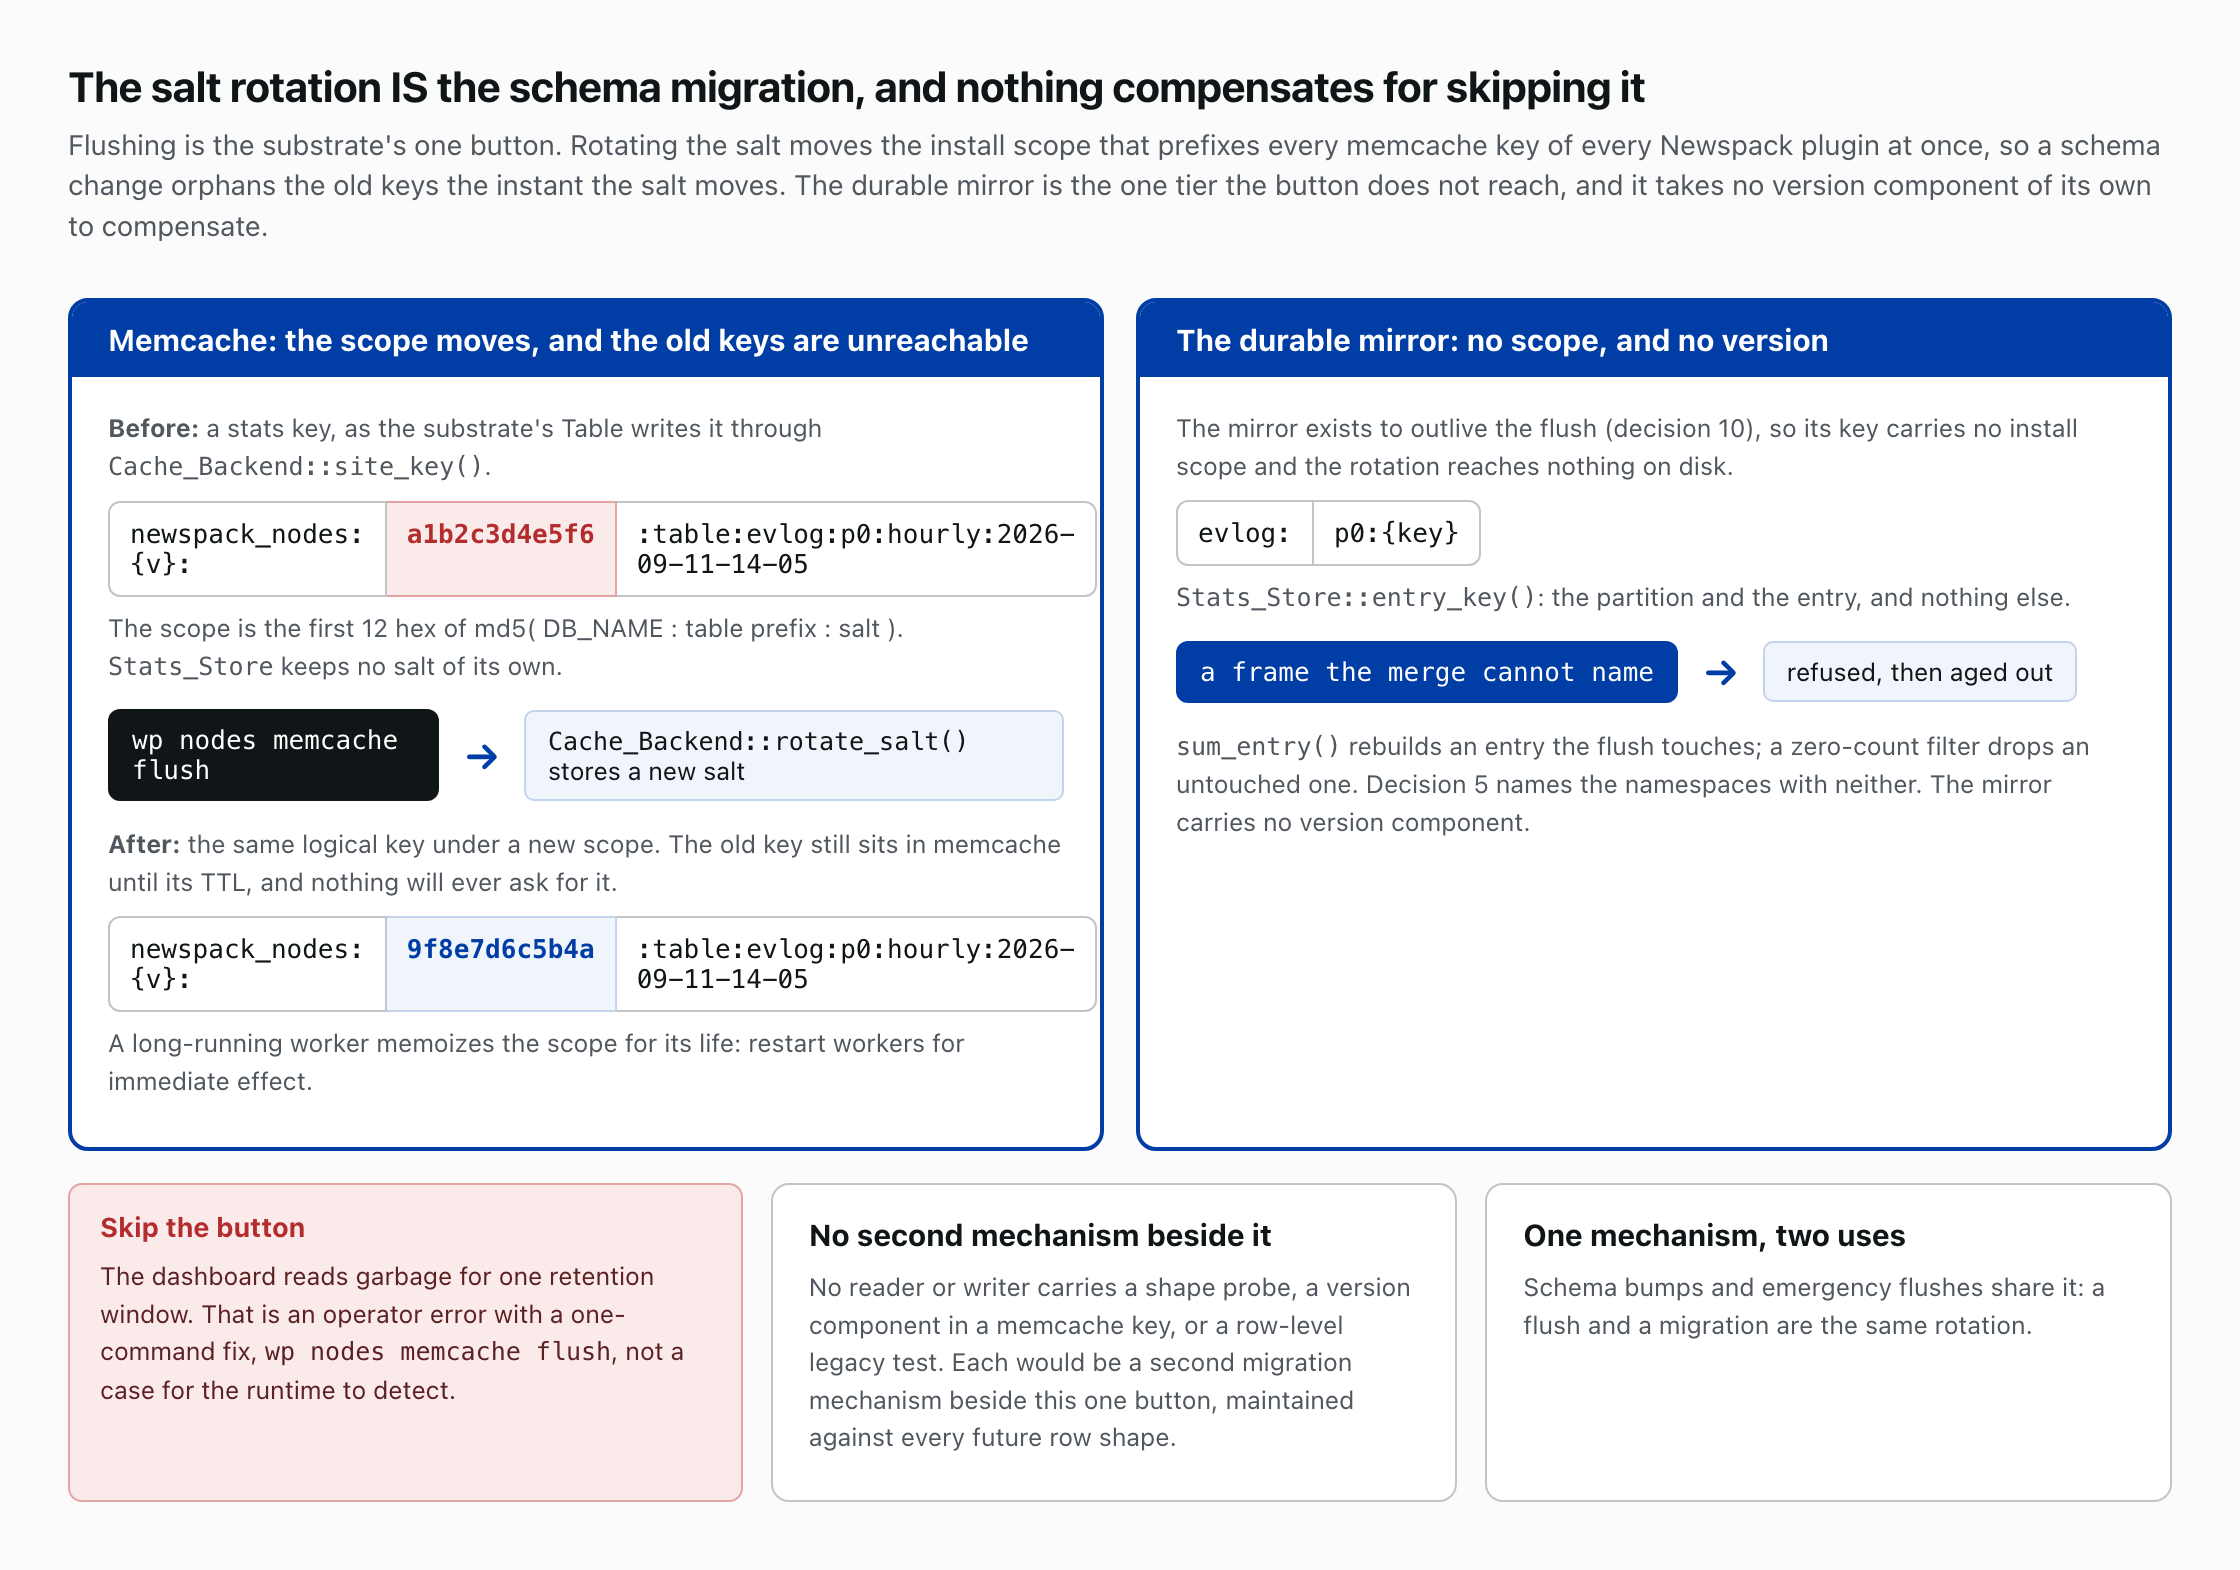
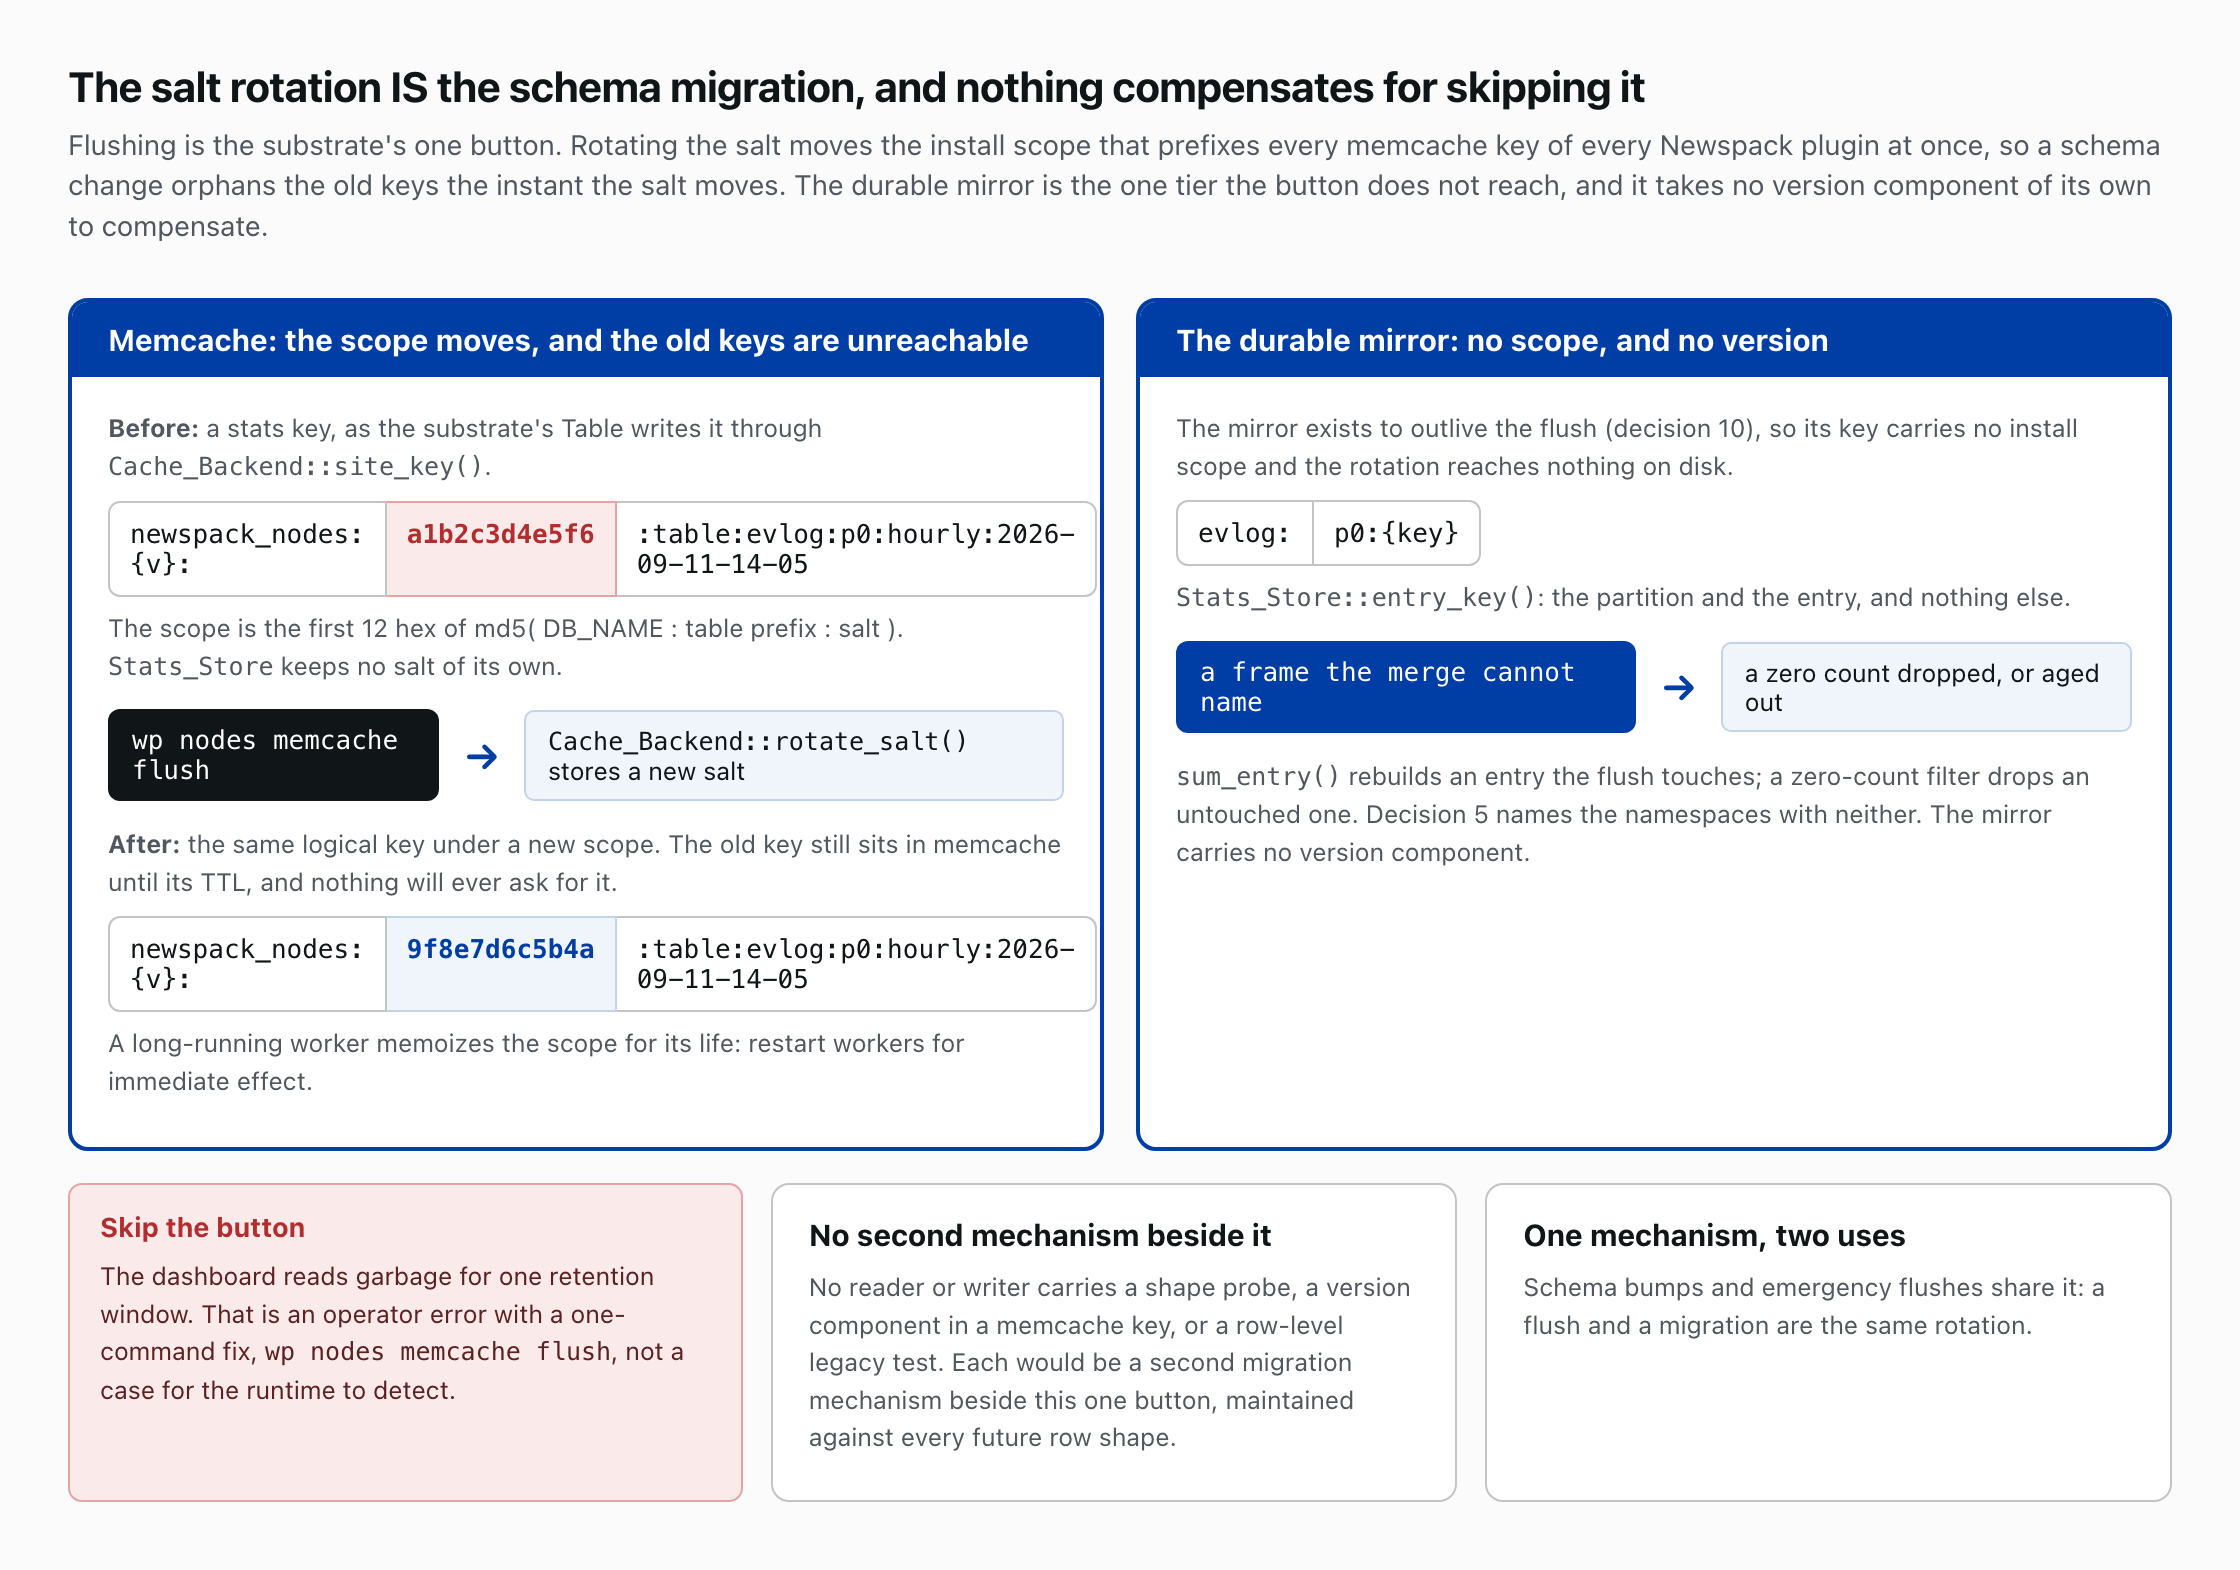
docs: one statement of the zero-count drop; the review skill counts eleven keys
`entry_key()`'s docblock, decision 5's alt text and the salt-rotation
diagram said the same rule three ways, one of them still "refused"; each
now states the two outcomes and defers the namespace list to decision 5,
and the diagram is re-rendered. The store's key parsers own the segment
prose the two `@param` rows repeated. The review skill counts the eleven
application keys the schema declares and names `mirrors_key()` as the one
predicate both reader seams ask. Two tests spell the marker's cache key
through the helper that owns it.

Changed region(s): [[0.5, 0.4057, 0.9375, 0.5618]]

diff --git a/docs/img/dec-salt-rotation.html b/docs/img/dec-salt-rotation.html
@@ -40,7 +40,7 @@
       <p>The mirror exists to outlive the flush (decision 10), so its key carries no install scope and the rotation reaches nothing on disk.</p>
       <div class="keyrow"><span class="seg">evlog:</span><span class="seg">p0:{key}</span></div>
       <p class="cap"><span class="mono">Stats_Store::entry_key()</span>: the partition and the entry, and nothing else.</p>
-      <div class="act"><span class="cmd" style="background:#003DA5">a frame the merge cannot name</span><span class="arr">&rarr;</span><span class="chip">refused, then aged out</span></div>
+      <div class="act"><span class="cmd" style="background:#003DA5">a frame the merge cannot name</span><span class="arr">&rarr;</span><span class="chip">a zero count dropped, or aged out</span></div>
       <p class="cap"><span class="mono">sum_entry()</span> rebuilds an entry the flush touches; a zero-count filter drops an untouched one. Decision 5 names the namespaces with neither. The mirror carries no version component.</p>
     </div></div>
 </div>

diff --git a/includes/class-stats-store.php b/includes/class-stats-store.php
@@ -1266,9 +1266,8 @@ class Stats_Store {
 	 * the entry and nothing else, and a rotation orphans nothing on disk.
 	 *
 	 * No version component either: a frame in a shape the merge does not name
-	 * sums to a zero count, which `measured()` drops on the write and on the
-	 * read where a sum table names the count; one outside those four
-	 * namespaces ages out of the retention window.
+	 * sums to a zero count `measured()` drops, or ages out with its retention
+	 * window — decision 5 names which namespaces take which.
 	 *
 	 * @param int    $partition Flame-builder partition.
 	 * @param string $key       Entry key within the namespace.
@@ -1493,8 +1492,7 @@ class Stats_Store {
 	 * bucket most of whose window is spent, the moment that policy changes.
 	 *
 	 * @api The mirror seam, sizing what it hands back.
-	 * @param string $key Table-RELATIVE entry key: `<ns>:…:<bucket>`, as the
-	 *                    rehydrate seam reads its namespace off segment 0.
+	 * @param string $key Table-RELATIVE entry key: `<ns>:…:<bucket>`.
 	 * @param int    $now Clock, so one answer cannot straddle a boundary.
 	 * @return int Seconds remaining, 0 when the key names no readable bucket.
 	 */
@@ -1515,7 +1513,7 @@ class Stats_Store {
 	 * ISO 8601 through `strtotime()`, because that function reads many
 	 * non-dates as dates, `x` included; the shape is pinned first.
 	 *
-	 * @param string $key Table-relative entry key; the bucket is the last segment.
+	 * @param string $key Table-relative entry key: `<ns>:…:<bucket>`.
 	 * @return array{0: int, 1: int}|null
 	 */
 	private static function bucket_span( string $key ): ?array {

diff --git a/tests/unit/StatsStoreTest.php b/tests/unit/StatsStoreTest.php
@@ -762,9 +762,9 @@ class StatsStoreTest extends TestCase {
 		// one only briefly, since its frame may still land.
 		$this->assertSame( [ [ 'lb:' . $closed, 'lb:' . $open ] ], $asked );
 		$expiries = Core::$memd->expiries();
-		$brief    = $expiries[ \Newspack_Nodes\Table_Node::entry_key( Stats_Store::namespace_for( 0 ), 'lb:' . $open ) ] ?? 0;
+		$brief    = $expiries[ self::cache_key( 0, 'lb:' . $open ) ] ?? 0;
 		$this->assertEqualsWithDelta( $now + Stats_Store::ABSENCE_HOLD_SECONDS, $brief, 2, 'the open bucket\'s absence holds briefly' );
-		$held     = $expiries[ \Newspack_Nodes\Table_Node::entry_key( Stats_Store::namespace_for( 0 ), 'lb:' . $closed ) ] ?? 0;
+		$held     = $expiries[ self::cache_key( 0, 'lb:' . $closed ) ] ?? 0;
 		// The window is 7200s from the bucket's start, an hour ago.
 		$this->assertEqualsWithDelta( $now - ( $now % Stats_Store::BUCKET_SECONDS ) - 3600 + 7200, $held, 2 + Stats_Store::BUCKET_SECONDS, 'held for what is left of the window, not the table lifetime' );
 	}

diff --git a/tests/Helpers/TestCase.php b/tests/Helpers/TestCase.php
@@ -218,6 +218,7 @@ abstract class TestCase extends RuntimeTestCase {
 	protected static function cache_key( int $partition, string $key ): string {
 		return \Newspack_Nodes\Table_Node::entry_key( \Newspack_Event_Logger_Nodes\Stats_Store::namespace_for( $partition ), $key );
 	}
+
 	/**
 	 * The inverse of `positional_url_row()`, for assertions.
 	 *

diff --git a/docs/architecture-decisions.md b/docs/architecture-decisions.md
@@ -78,7 +78,7 @@ The three settings a hub pushes, the ruleset, `log_memory` and `flush_every_line
 
 A memcache schema change here is migrated by the substrate's flush, `wp nodes memcache flush` over [`Cache_Backend::rotate_salt()`](https://github.com/Automattic/newspack-nodes/blob/v2.56.0/includes/class-cache-backend.php), and `Stats_Store` keeps no salt and no migration path of its own. Schema bumps and emergency flushes share that one button. **The rotation IS the migration, and nothing in the code compensates for skipping it.** A schema change orphans the old keys the instant the salt moves, so no reader or writer carries a shape probe, a version component or a row-level legacy test: each would be a second migration mechanism beside this one button, maintained against every future row shape. Skip the button and the dashboard reads garbage for one retention window; that is an operator error with a one-command fix, not a case for the runtime to detect.
 
-![The salt rotation drawn on two key forms. Left, memcache: a stats key as the substrate Table writes it through Cache_Backend::site_key(), newspack_nodes:{v}: then a 12-hex scope, the first 12 hex of md5(DB_NAME : table prefix : salt), then :table:evlog:p0:hourly and the bucket. wp nodes memcache flush runs Cache_Backend::rotate_salt(), which stores a new salt, and the same logical key moves under a new scope while the old key sits in memcache until its TTL with nothing ever asking for it; Stats_Store keeps no salt of its own, and a long-running worker memoizes the scope, so workers restart for immediate effect. Right, the durable mirror: evlog:p0:{key} carries no install scope, so the rotation reaches nothing on disk, and the key carries no version component — a frame the merge cannot name sums to a zero count, which Stats_Store::measured() drops on the write and on the read where a sum table names the count; one outside those four namespaces leaves with its retention window. Below: skipping the flush reads garbage for one retention window, an operator error with a one-command fix; no reader or writer carries a shape probe, a version component in a memcache key or a row-level legacy test; and schema bumps and emergency flushes share the one rotation.](img/dec-salt-rotation.png)
+![The salt rotation drawn on two key forms. Left, memcache: a stats key as the substrate Table writes it through Cache_Backend::site_key(), newspack_nodes:{v}: then a 12-hex scope, the first 12 hex of md5(DB_NAME : table prefix : salt), then :table:evlog:p0:hourly and the bucket. wp nodes memcache flush runs Cache_Backend::rotate_salt(), which stores a new salt, and the same logical key moves under a new scope while the old key sits in memcache until its TTL with nothing ever asking for it; Stats_Store keeps no salt of its own, and a long-running worker memoizes the scope, so workers restart for immediate effect. Right, the durable mirror: evlog:p0:{key} carries no install scope, so the rotation reaches nothing on disk, and the key carries no version component — a frame the merge cannot name sums to a zero count Stats_Store::measured() drops where a sum table names the count, or leaves with its retention window. Below: skipping the flush reads garbage for one retention window, an operator error with a one-command fix; no reader or writer carries a shape probe, a version component in a memcache key or a row-level legacy test; and schema bumps and emergency flushes share the one rotation.](img/dec-salt-rotation.png)
 
 **The durable mirror is the one tier the button does not reach**, by [decision 10](#decision-10-the-durable-mirror-writes-a-bucket-once-when-it-closes-under-a-key-that-carries-no-install-scope), and it takes no version component of its own to compensate. `sum_entry()` rebuilds an entry from its field table, so an entry the flush TOUCHES cannot come out a hybrid of two shapes — it comes out zeros. It is the UNTOUCHED entry that needs answering, because `sum_fields()` starts from the stored bucket and re-derives only the keys the incoming flush names, so a stale one is copied through verbatim. **What removes those is the zero-count filter, and only four namespaces have one**: an entry whose shape the table cannot name reads its count index as absent, so `Stats_Store::measured()` drops it, at the writer's next write to its bucket through `cap_dim()` and `fold_categories()` and at every read through `Performance_CI_Node`'s merges, clearing `dim`, `url_dim`, `categories` and `url_cat`. **The rest are the exposure**, and none of them rebuilds: `add_totals()` replaces its sum onto the stored `hourly` bucket so a field outside `HOURLY_SUMS` rides through, `merge_leaderboard_bucket()` rebuilds only the categories the flush names in `lb` and `lb_s`, the `urls` row and `url` merge by passthrough — `url` only when `set_flame_topn` is non-zero, since 0 mirrors none — and `urlnames` and `urlmap` have no field table at all. A shape change to those is migrated by the flush, by one retention window, and by nothing else: the price of keeping one migration mechanism rather than two, and the reason to weigh a shape change there rather than the reason to build a lever.
 
